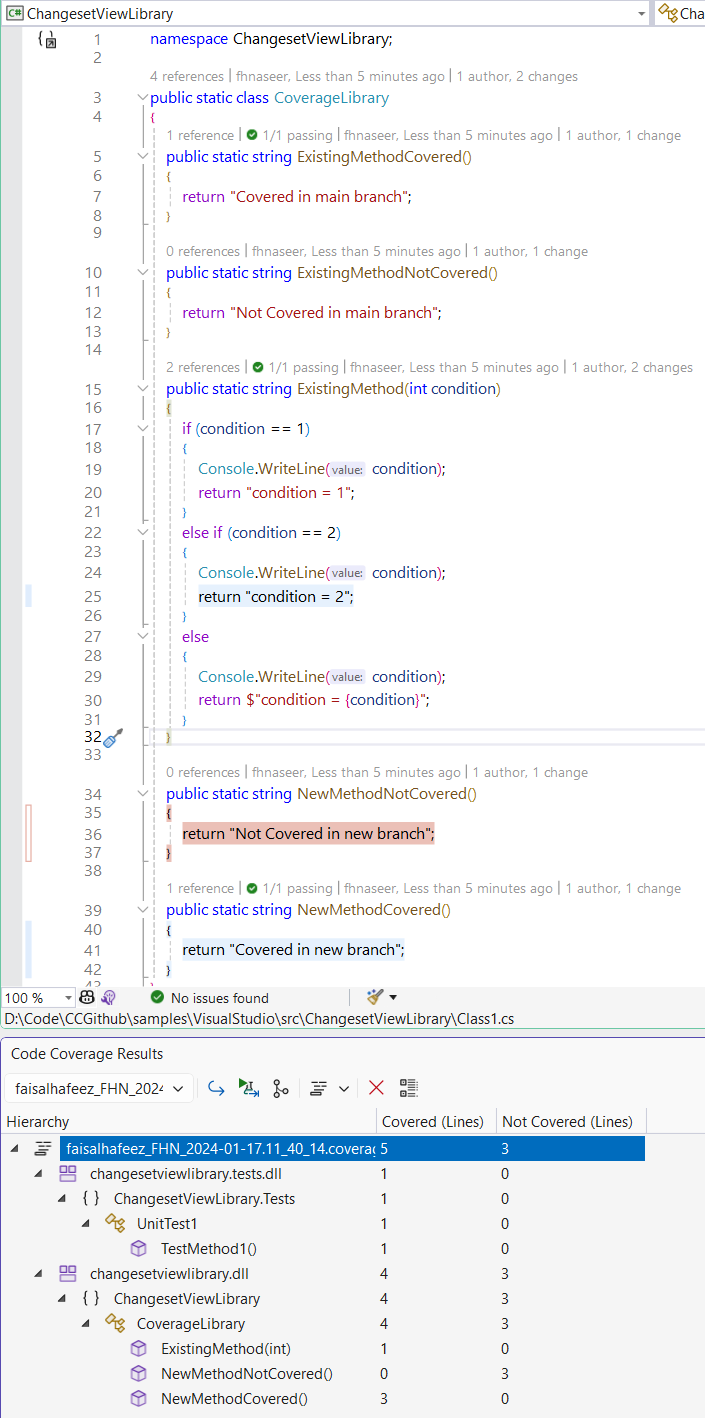
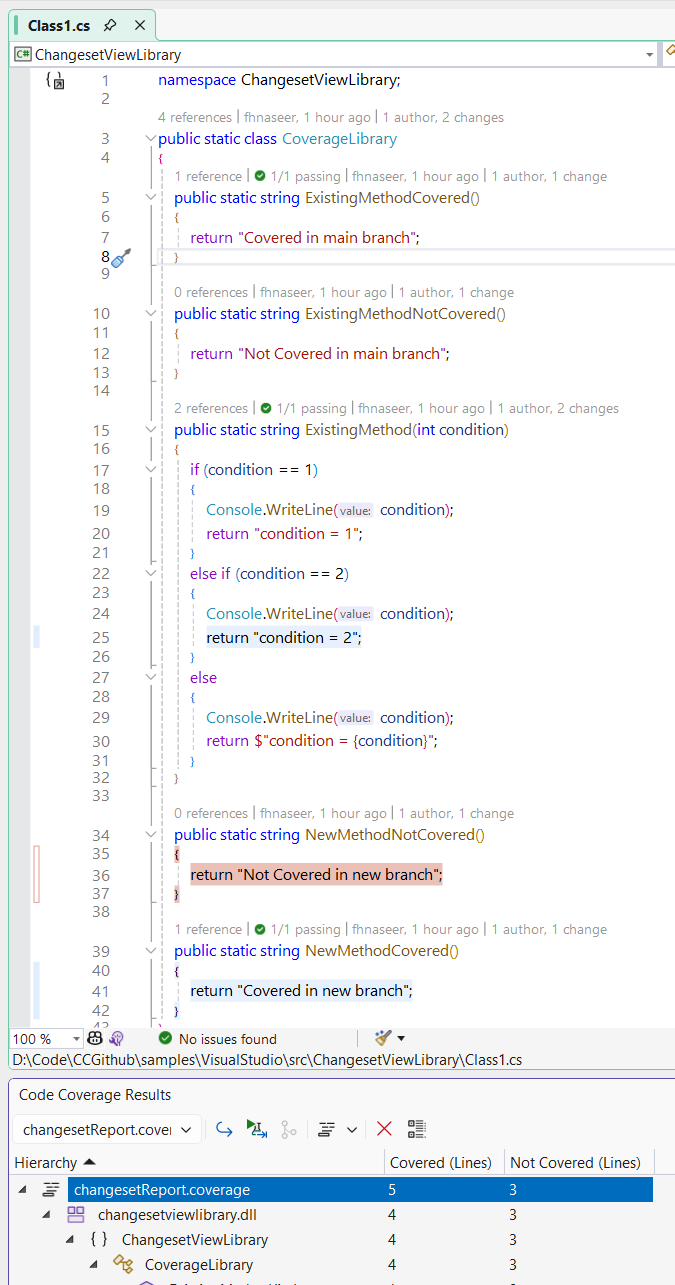
updating name,

diff --git a/samples/VisualStudio/scenarios/scenario04/reportContentView/ReportContentView.md b/samples/VisualStudio/scenarios/scenario04/reportContentView/ReportContentView.md
@@ -37,7 +37,7 @@ Changeset report filters coverage report and shows only statistics for the chang
     start VisualStudio.sln
     ```
 
-3. Analyze code coverage
+3. Open [changesetReport.coverage](../../../reports/changesetReport.coverage)
 
 4. Switch to **Changeset Report** and set **Base Branch** (origin/main)
 
